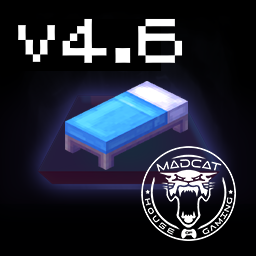
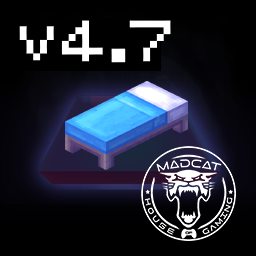
Correct README.md Update pack version in install.mcfunction/uninstall.mcfunction Update pack.png Add release file

Changed region(s): [[0.2188, 0.0625, 0.7188, 0.25], [0.0625, 0.0938, 0.2188, 0.25]]

diff --git a/README.md b/README.md
@@ -60,9 +60,10 @@ Some of the features include:
 - Update for MC 1.21.11
 - doWeatherCycle is now advance_weather
 
-## Version 4.6 Changelog
+## Version 4.7 Changelog
 
-- Updates for MC 1.21.11+
+- Update for MC 26.1
+- time features need to specify which dimension 
 
 ## More resources
 
